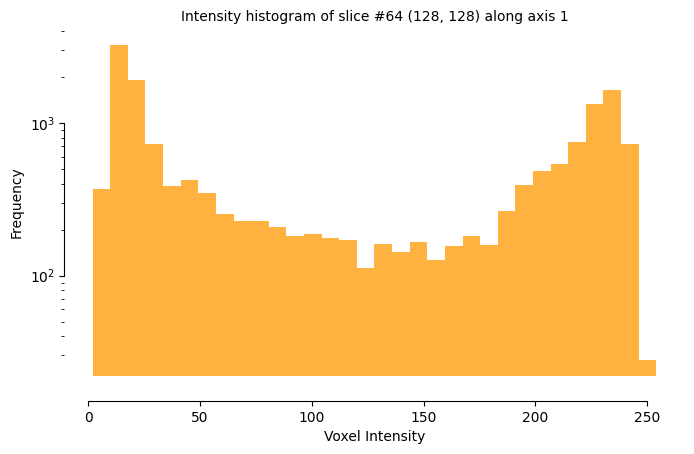
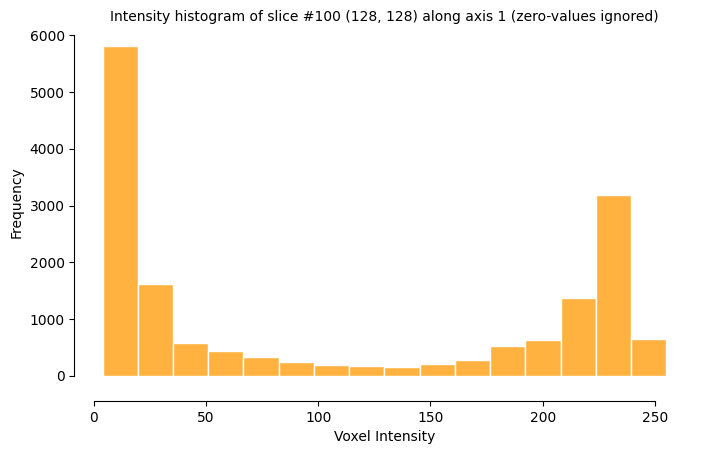
Docs examples and parameter naem to coarseness

diff --git a/qim3d/viz/_data_exploration.py b/qim3d/viz/_data_exploration.py
@@ -877,12 +877,12 @@ def chunks(zarr_path: str, **kwargs) -> widgets.VBox:
 
 def histogram(
     volume: np.ndarray,
-    subsample_level: int | list[int] = 1,
+    coarseness: int | list[int] = 1,
     ignore_zero: bool = True,
     bins: int | str = 'auto',
     slice_idx: int | str | None = None,
+    slice_axis: int = 0,
     vertical_line: int = None,
-    axis: int = 0,
     kde: bool = False,
     log_scale: bool = False,
     despine: bool = True,
@@ -903,10 +903,10 @@ def histogram(
 
     Args:
         volume (np.ndarray): A 3D NumPy array representing the volume to be visualized.
-        subsample_level (int or list[int], optional): A positive integer representing the coarseness of the subsampling. A value of 1 (default) uses the original volume, a value of 2 uses every second element along each axis and so on. Used to reduce the needed computation.
+        coarseness (int or list[int], optional): A positive integer representing the coarseness of the subsampling. A value of 1 (default) uses the original volume, a value of 2 uses every second element along each axis and so on. Used to reduce the needed computation.
         ignore_zero (bool, optional): Specifies if zero-values in the volume should be ignored.
         bins (Union[int, str], optional): Number of histogram bins or a binning strategy (e.g., "auto"). Default is "auto".
-        axis (int, optional): Axis along which to take a slice. Default is 0.
+        slice_axis (int, optional): Axis along which to take a slice. Default is 0.
         slice_idx (Union[int, str], optional): Specifies the slice to visualize. If an integer, it represents the slice index along the selected axis.
                                                If "middle", the function uses the middle slice. If None, the entire volume is visualized. Default is None.
         vertical_line (int, optional): Intensity value for a vertical line to be drawn on the histogram. Default is None.
@@ -930,7 +930,7 @@ def histogram(
             Otherwise, returns None.
 
     Raises:
-        ValueError: If `axis` is not a valid axis index (0, 1, or 2).
+        ValueError: If `slice_axis` is not a valid axis index (0, 1, or 2).
         ValueError: If `slice_idx` is an integer and is out of range for the specified axis.
 
     Example:
@@ -942,34 +942,44 @@ def histogram(
         ```
         ![viz histogram](../../assets/screenshots/viz-histogram-vol.png)
 
+    Example: Histogram from a single slice
         ```python
         import qim3d
 
         vol = qim3d.examples.bone_128x128x128
-        qim3d.viz.histogram(vol, subsample_level=3, kde=True, log_scale=True, bin_style='bars', edgecolor='white')
+        qim3d.viz.histogram(vol, slice_idx=100, slice_axis=1, bin_style='bars', edgecolor='white')
         ```
-        ![viz histogram](../../assets/screenshots/viz-histogram-vol-2.png)
+        ![viz histogram](../../assets/screenshots/viz-histogram-slice.png)
+
+    Example: Using coarsness for faster computation
+        ```python
+        import qim3d
+
+        vol = qim3d.examples.bone_128x128x128
+        qim3d.viz.histogram(vol, coarseness=2, kde=True, log_scale=True)
+        ```
+        ![viz histogram](../../assets/screenshots/viz-histogram-coarse.png)
 
     """
-    if not (0 <= axis < volume.ndim):
+    if not (0 <= slice_axis < volume.ndim):
         msg = f'Axis must be an integer between 0 and {volume.ndim - 1}.'
         raise ValueError(msg)
 
     title_suffixes = []
-    if subsample_level != 1:
-        volume = qim3d.operations.subsample(volume, subsample_level)
+    if coarseness > 1:
+        volume = qim3d.operations.subsample(volume, coarseness)
         title_suffixes.append('subsampled shape')
 
     if slice_idx == 'middle':
-        slice_idx = volume.shape[axis] // 2
+        slice_idx = volume.shape[slice_axis] // 2
 
     if slice_idx is not None:
-        if 0 <= slice_idx < volume.shape[axis]:
-            img_slice = np.take(volume, indices=slice_idx, axis=axis)
+        if 0 <= slice_idx < volume.shape[slice_axis]:
+            img_slice = np.take(volume, indices=slice_idx, axis=slice_axis)
             data = img_slice.ravel()
-            title = f'Intensity histogram of slice #{slice_idx} {img_slice.shape} along axis {axis}'
+            title = f'Intensity histogram of slice #{slice_idx} {img_slice.shape} along axis {slice_axis}'
         else:
-            msg = f'Slice index out of range. Must be between 0 and {volume.shape[axis] - 1}.'
+            msg = f'Slice index out of range. Must be between 0 and {volume.shape[slice_axis] - 1}.'
             raise ValueError(msg)
     else:
         data = volume.ravel()

diff --git a/docs/doc/image_analysis/operations.md b/docs/doc/image_analysis/operations.md
@@ -17,6 +17,8 @@ The `qim3d` library provides a set of methods for different operations on volume
             - stretch
             - center_twist
             - get_random_slice
+            - subsample
+            - ratio_subsample
 
 ::: qim3d.morphology
     options:
